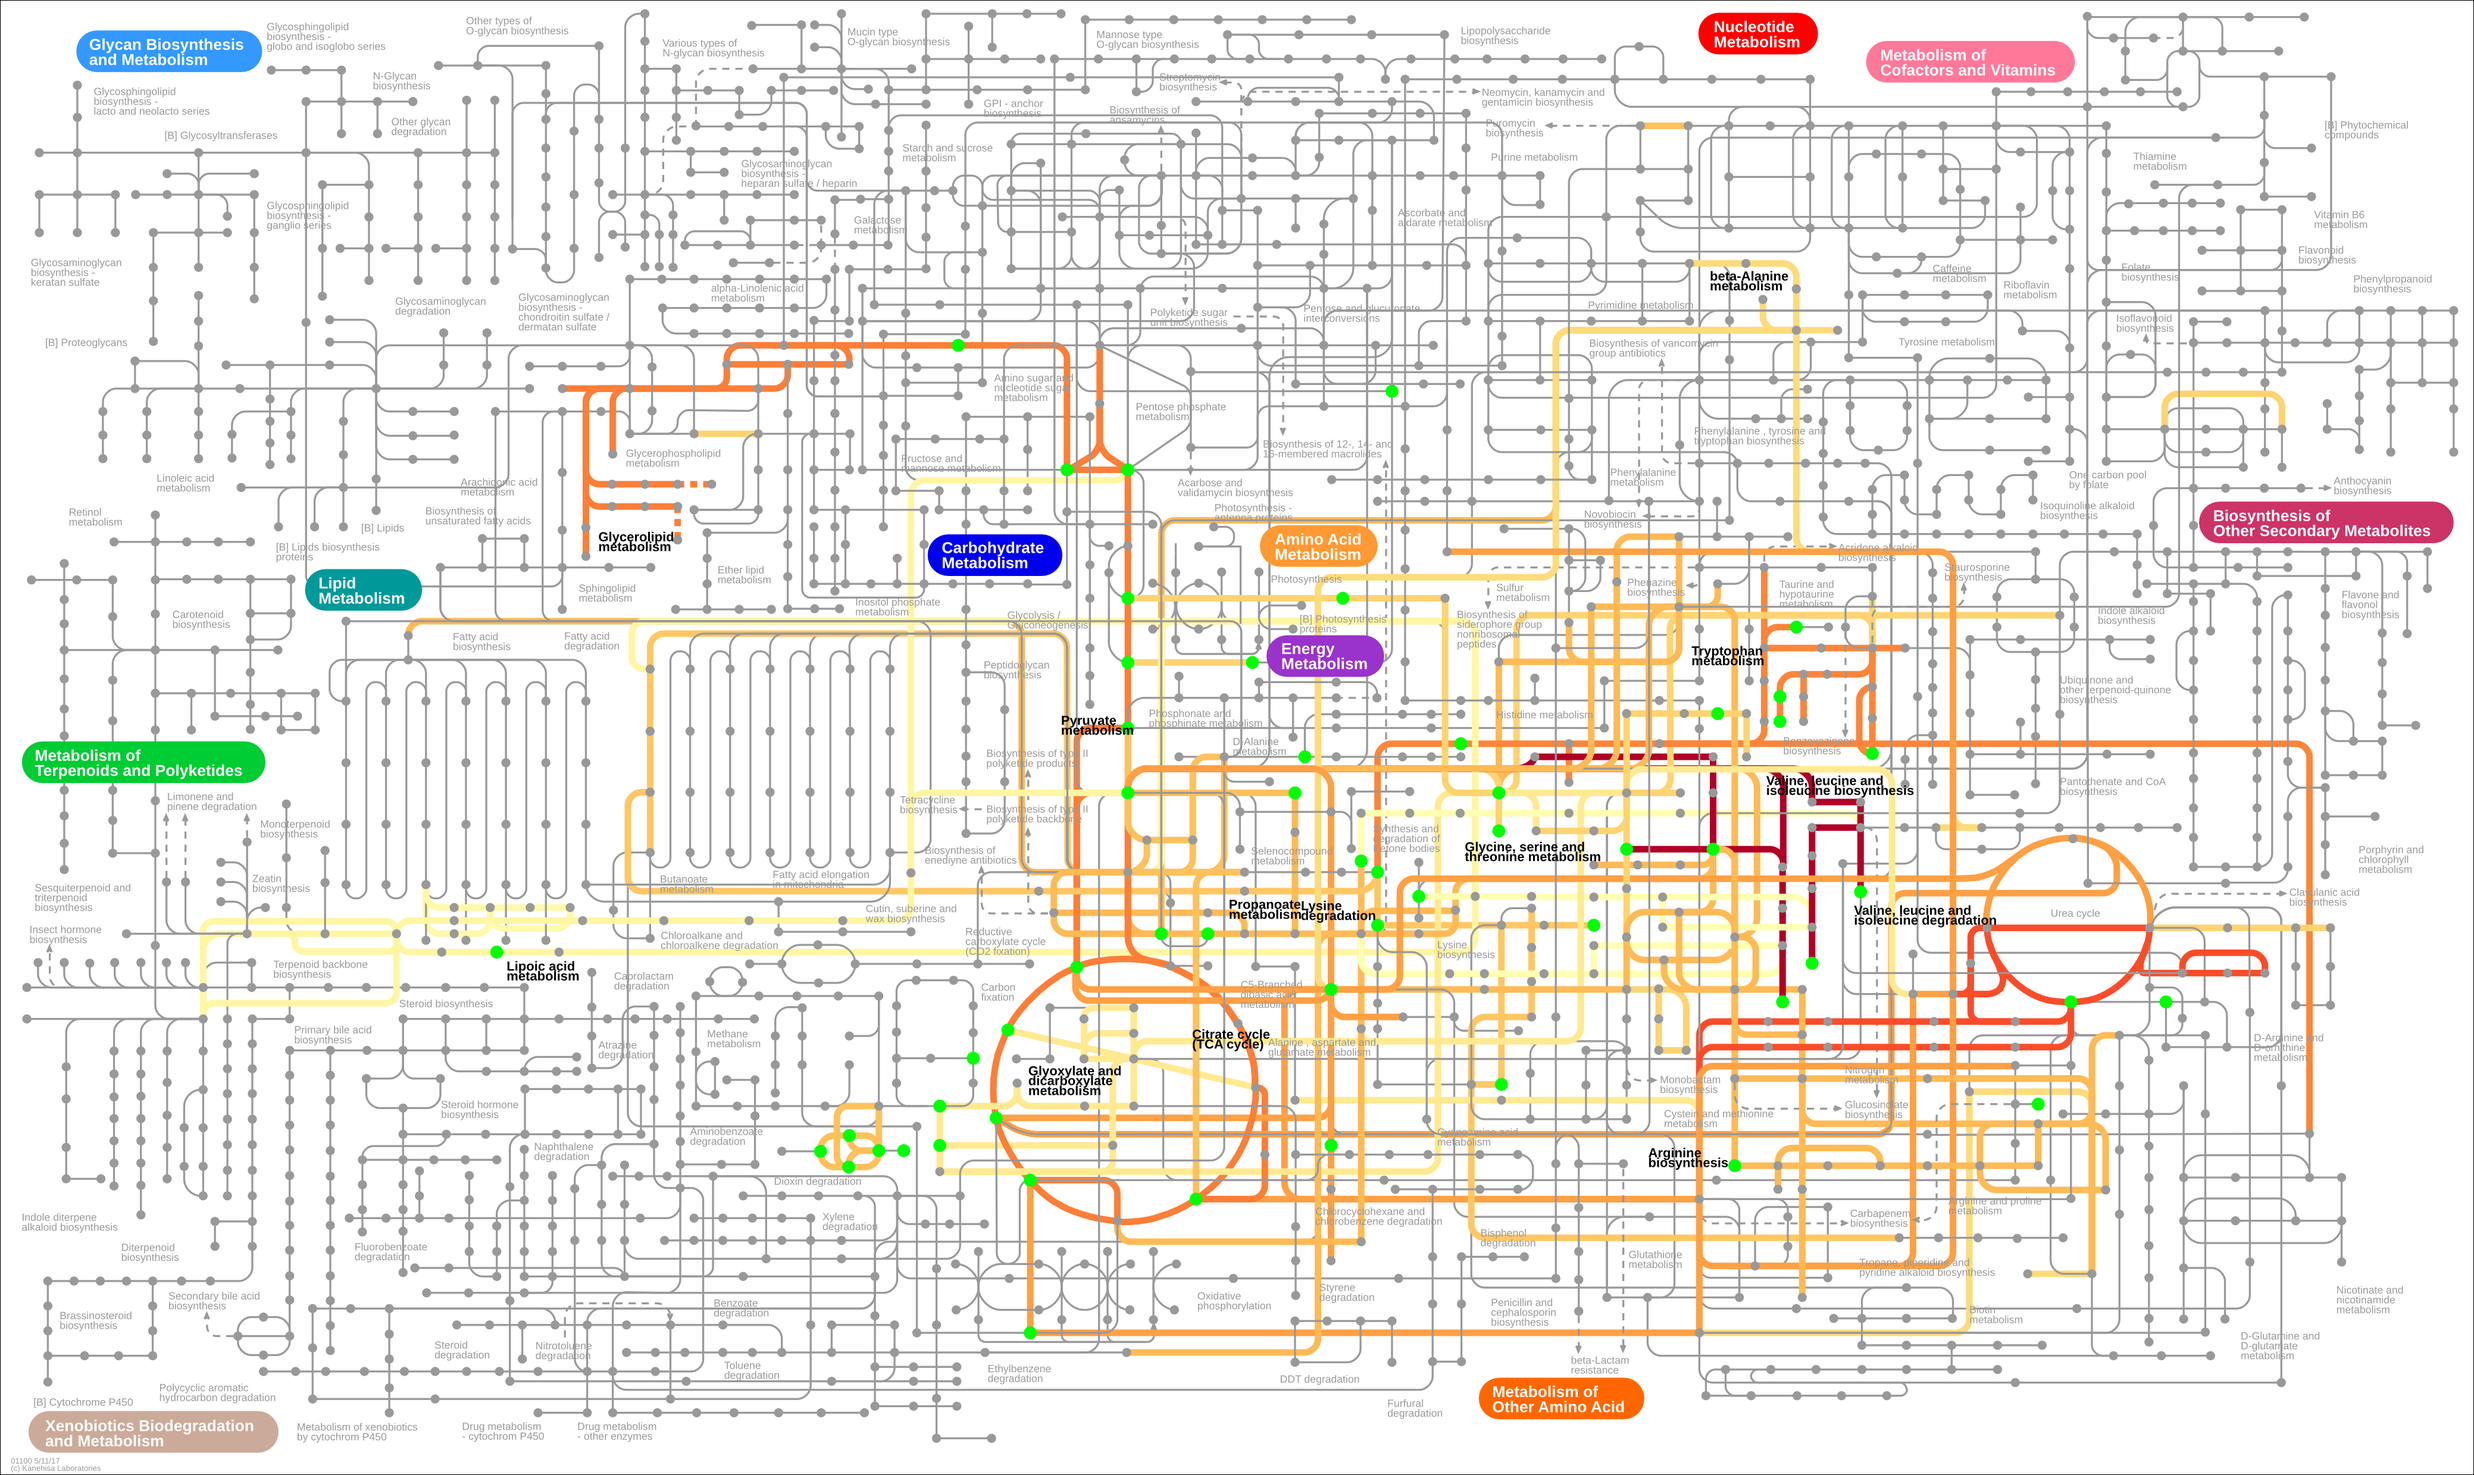
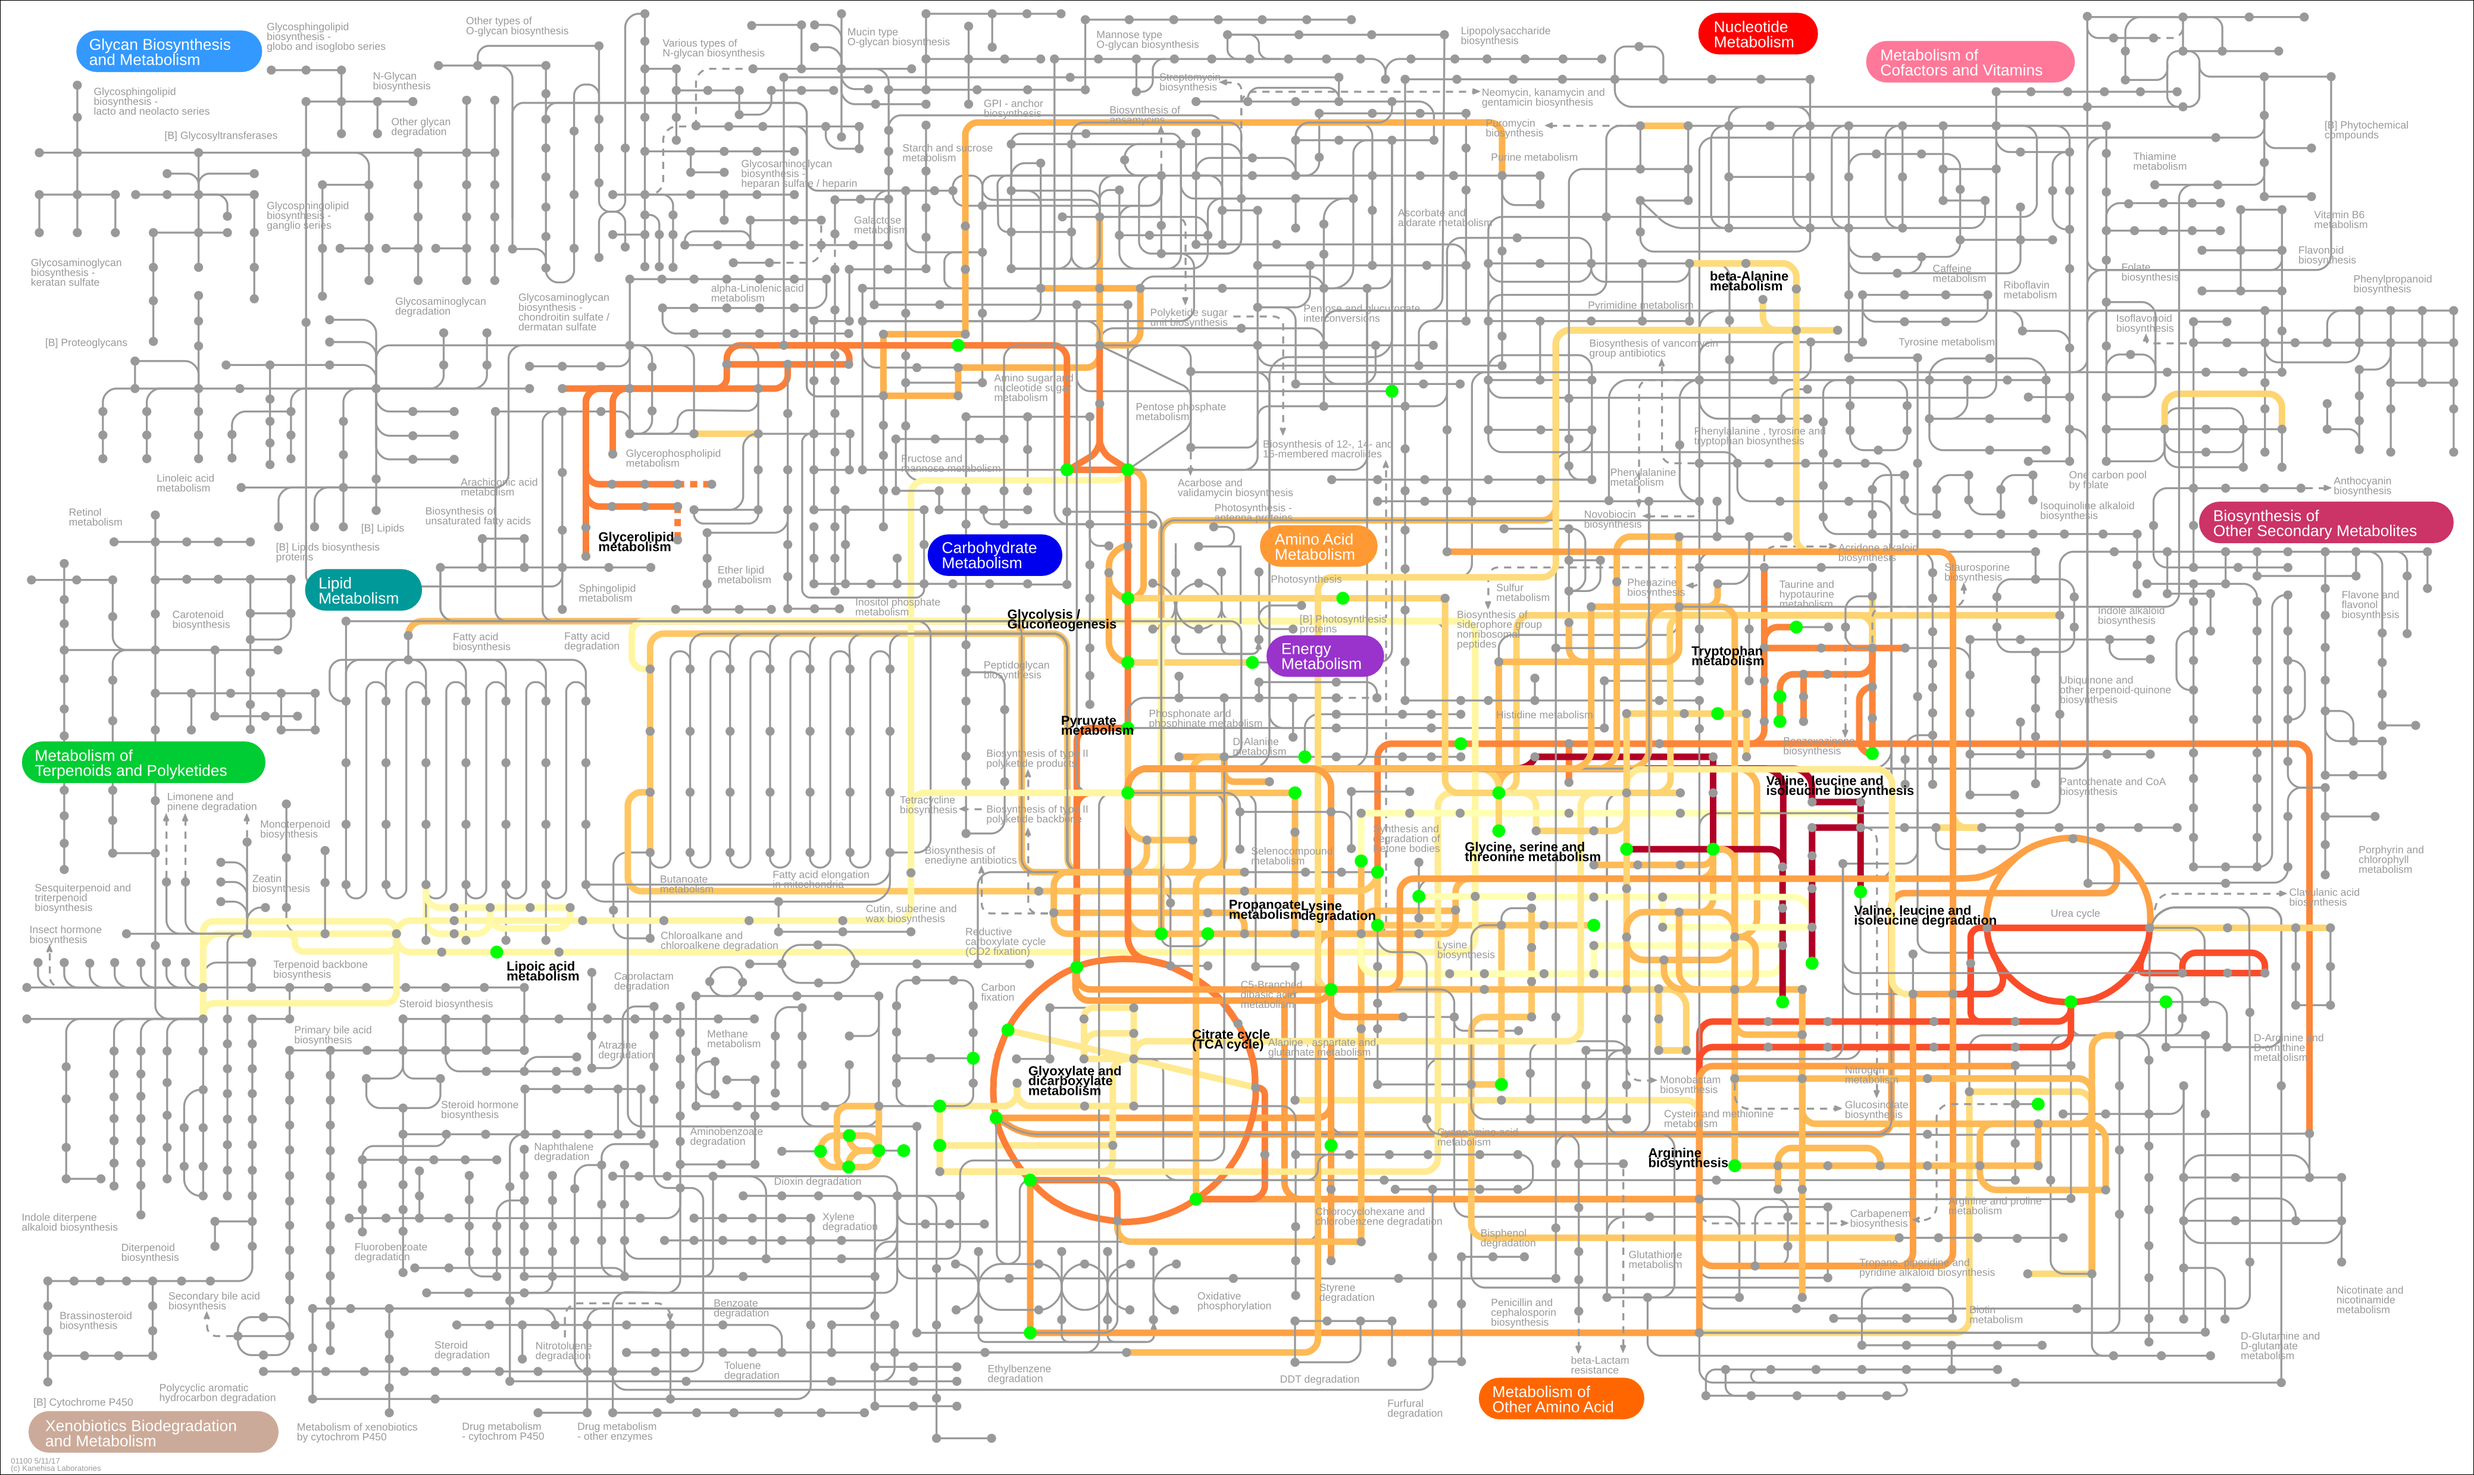
Expanded KEGG sub-module styling options

diff --git a/README.md b/README.md
@@ -34,7 +34,7 @@ df <- data.frame(
     -0.58241999,
     -1.30774442,
     -1.01095672)
-  )
+)
 
 # Convert names to IDs
 df$KEGG.ID <- namesToKeggMaps(df$Pathway)
@@ -47,15 +47,17 @@ df$color <- color_gradient(df$value)
 # Add width
 df$width <- "W12"
 
+# Make Kegg map
 getKeggAtlas(
   df[, c("KEGG.ID", "color", "width")],
   download_file_path = getwd(),
   highlight_path_names = TRUE,
-  module_names_font_color = "black",
-  module_names_font_weight = "bolder",
-  module_names_background_color = "#dddddd",
-  module_names_background_stroke = "black"
- )
+  module_styles_default = list(bg = "lightgrey", font = "black", stroke = "black", font_weight = "normal"),
+  module_styles = list(
+    "Amino acid metabolism" = list(bg = "darkgreen", font = "white", font_weight = "bolder")
+  )
+)
+
 ```
 This code will download an image called RiPath3 KEGG Atlas.png which should look like this:
 ![Example - RiPath3 KEGG Atlas.png](https://github.com/ratleyge/RiPath3/blob/main/Example%20-%20RiPath3%20Kegg%20Atlas.png)
@@ -74,10 +76,6 @@ getKeggAtlasFromMetaboAnalystOutput(
     download_file_path = getwd(),
     download_file_name = "Example - RiPath3 Kegg Atlas From MetaboAnalyst.png",
     highlight_path_names = TRUE,
-    module_names_font_color = "white",
-    module_names_font_weight = "bolder",
-    module_names_background_color = "Default",
-    module_names_background_stroke = "Default",
     generate_legend = TRUE
 )
 ```
